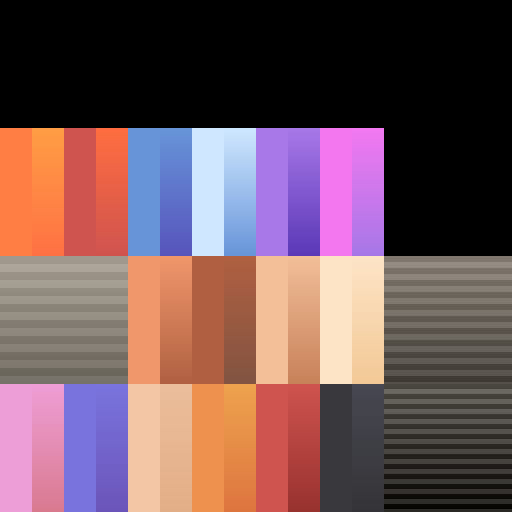
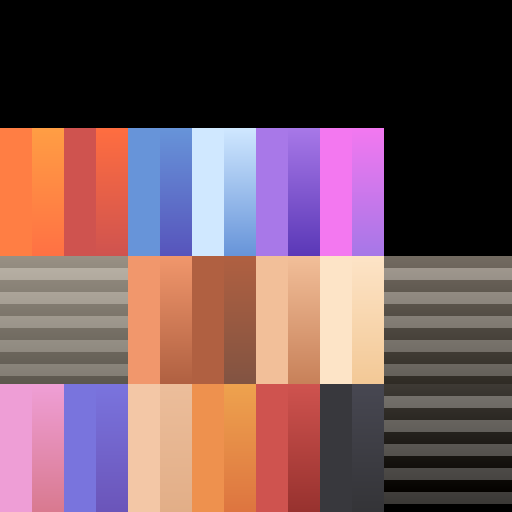
Disable texture filtering blur + bigger Tibbs stripes
Texture sampling was using LinearMipmapNearest min-filter with auto-
generated mipmaps, which averaged out the stripe banding when the
512x512 colormap was sampled into the cube cat's ~128 px render
target. Switched to GL_NEAREST min-filter and dropped GenerateMipmap
so each fragment samples a single texel.

Regenerated Tibbs with 12-px stripes (was 5) at ±30 contrast (was
±15-18). With nearest-neighbor sampling the banding should now
survive the render path. May look pixel-aliased on edges; tradeoff for
stripe visibility.

Changed region(s): [[0.75, 0.5, 1.0, 1.0], [0.0, 0.5, 0.25, 0.75]]

diff --git a/Renderer/Texture.cs b/Renderer/Texture.cs
@@ -18,11 +18,10 @@ internal sealed class Texture : IDisposable
                 (uint)width, (uint)height, 0,
                 GLEnum.Rgba, GLEnum.UnsignedByte, p);
         }
-        _gl.TexParameter(GLEnum.Texture2D, GLEnum.TextureMinFilter, (int)GLEnum.LinearMipmapNearest);
+        _gl.TexParameter(GLEnum.Texture2D, GLEnum.TextureMinFilter, (int)GLEnum.Nearest);
         _gl.TexParameter(GLEnum.Texture2D, GLEnum.TextureMagFilter, (int)GLEnum.Nearest);
         _gl.TexParameter(GLEnum.Texture2D, GLEnum.TextureWrapS, (int)GLEnum.ClampToEdge);
         _gl.TexParameter(GLEnum.Texture2D, GLEnum.TextureWrapT, (int)GLEnum.ClampToEdge);
-        _gl.GenerateMipmap(GLEnum.Texture2D);
     }
 
     public void Bind(uint unit)